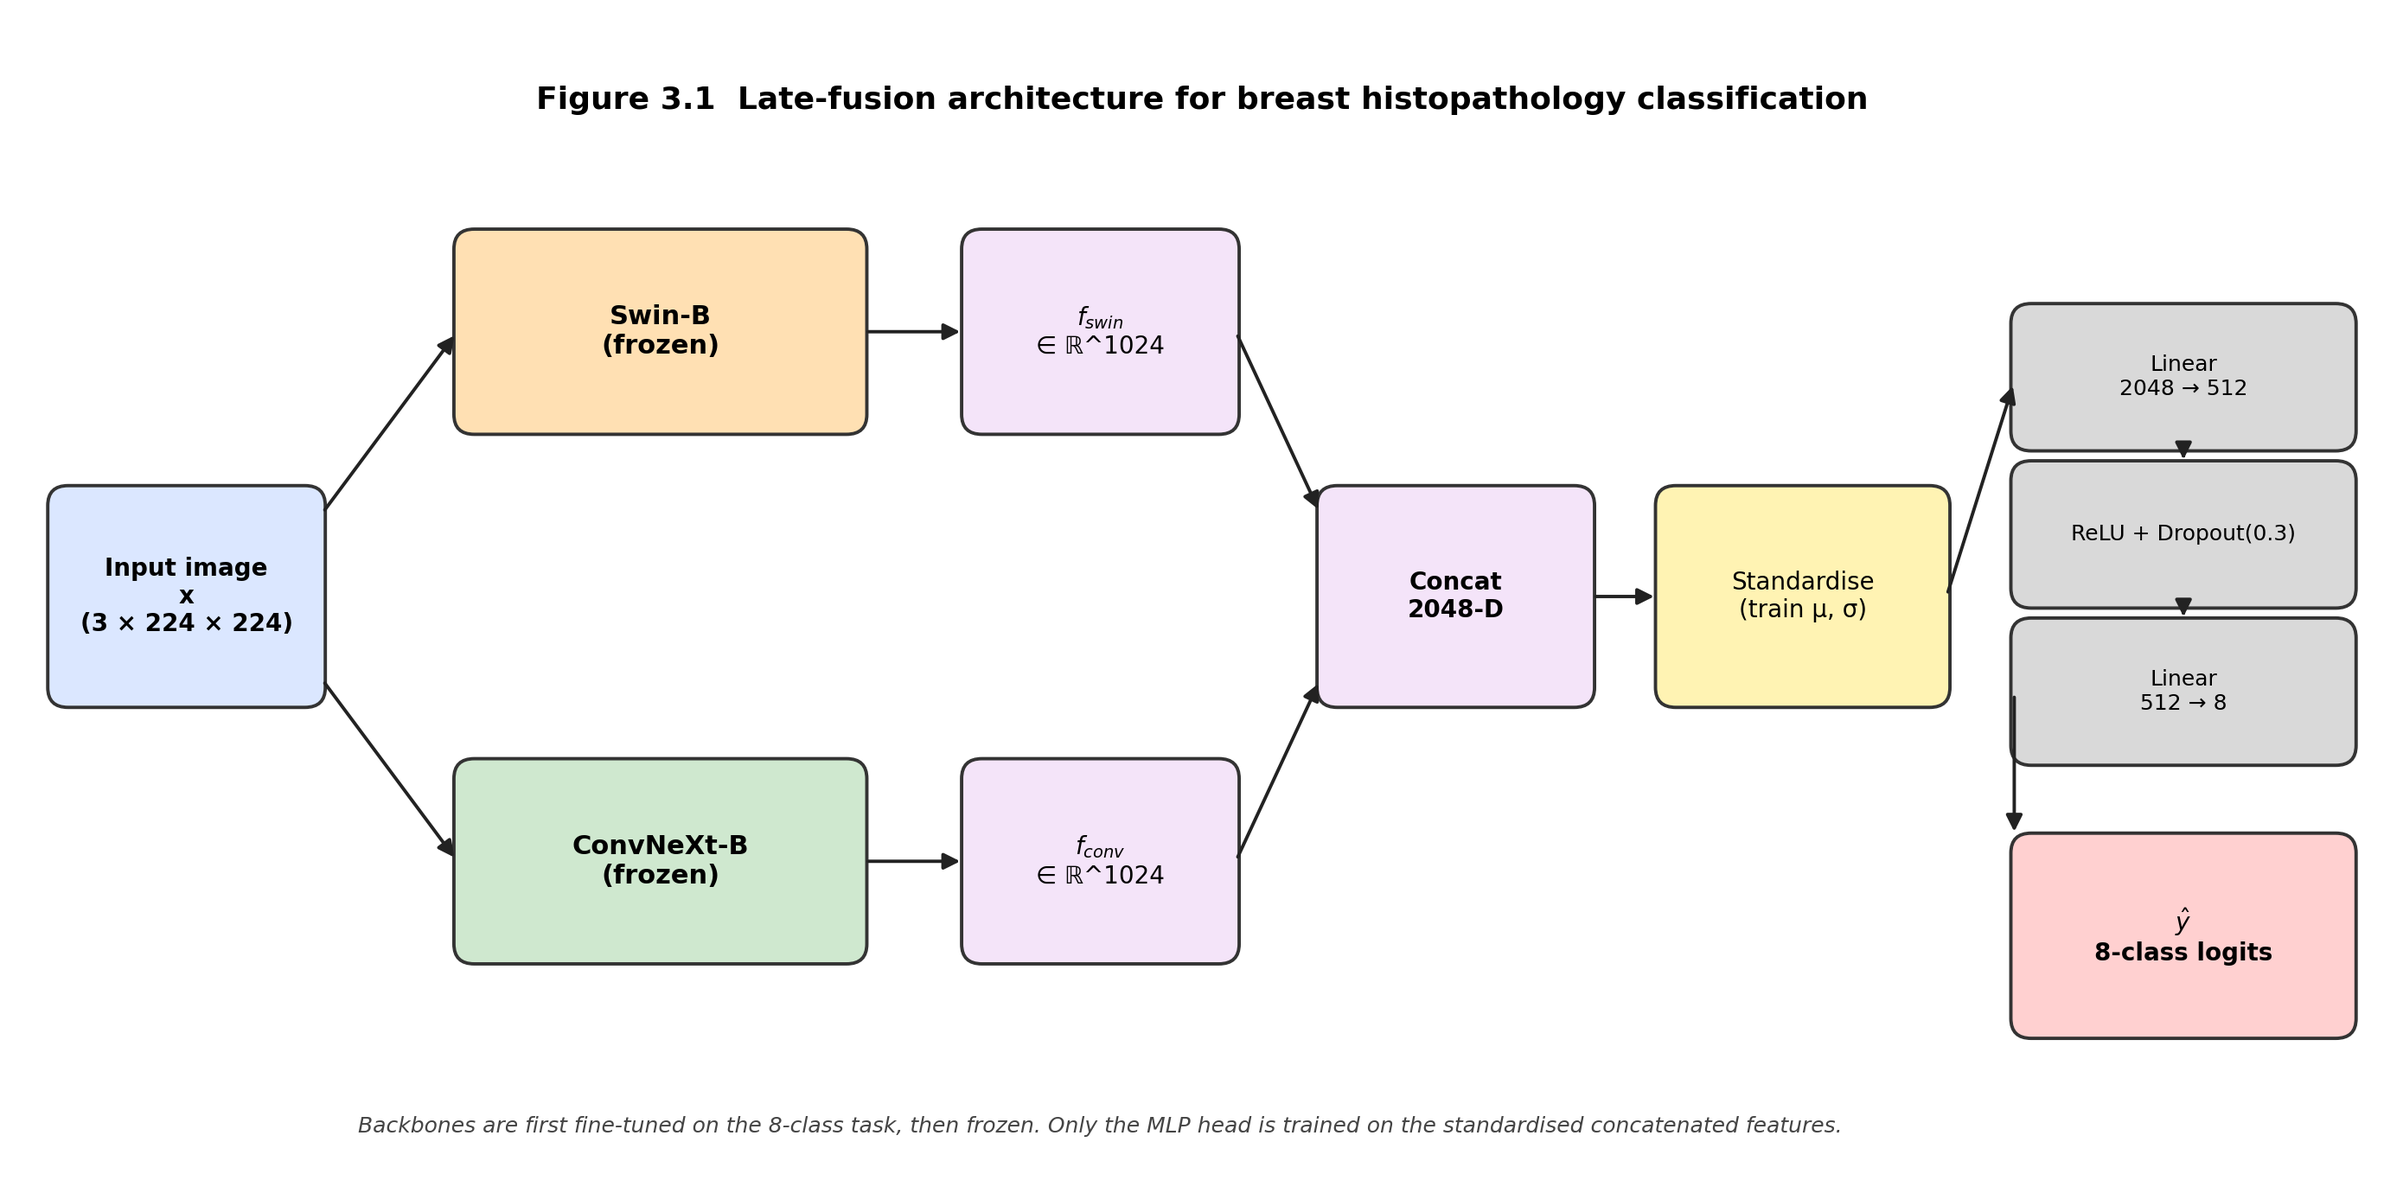
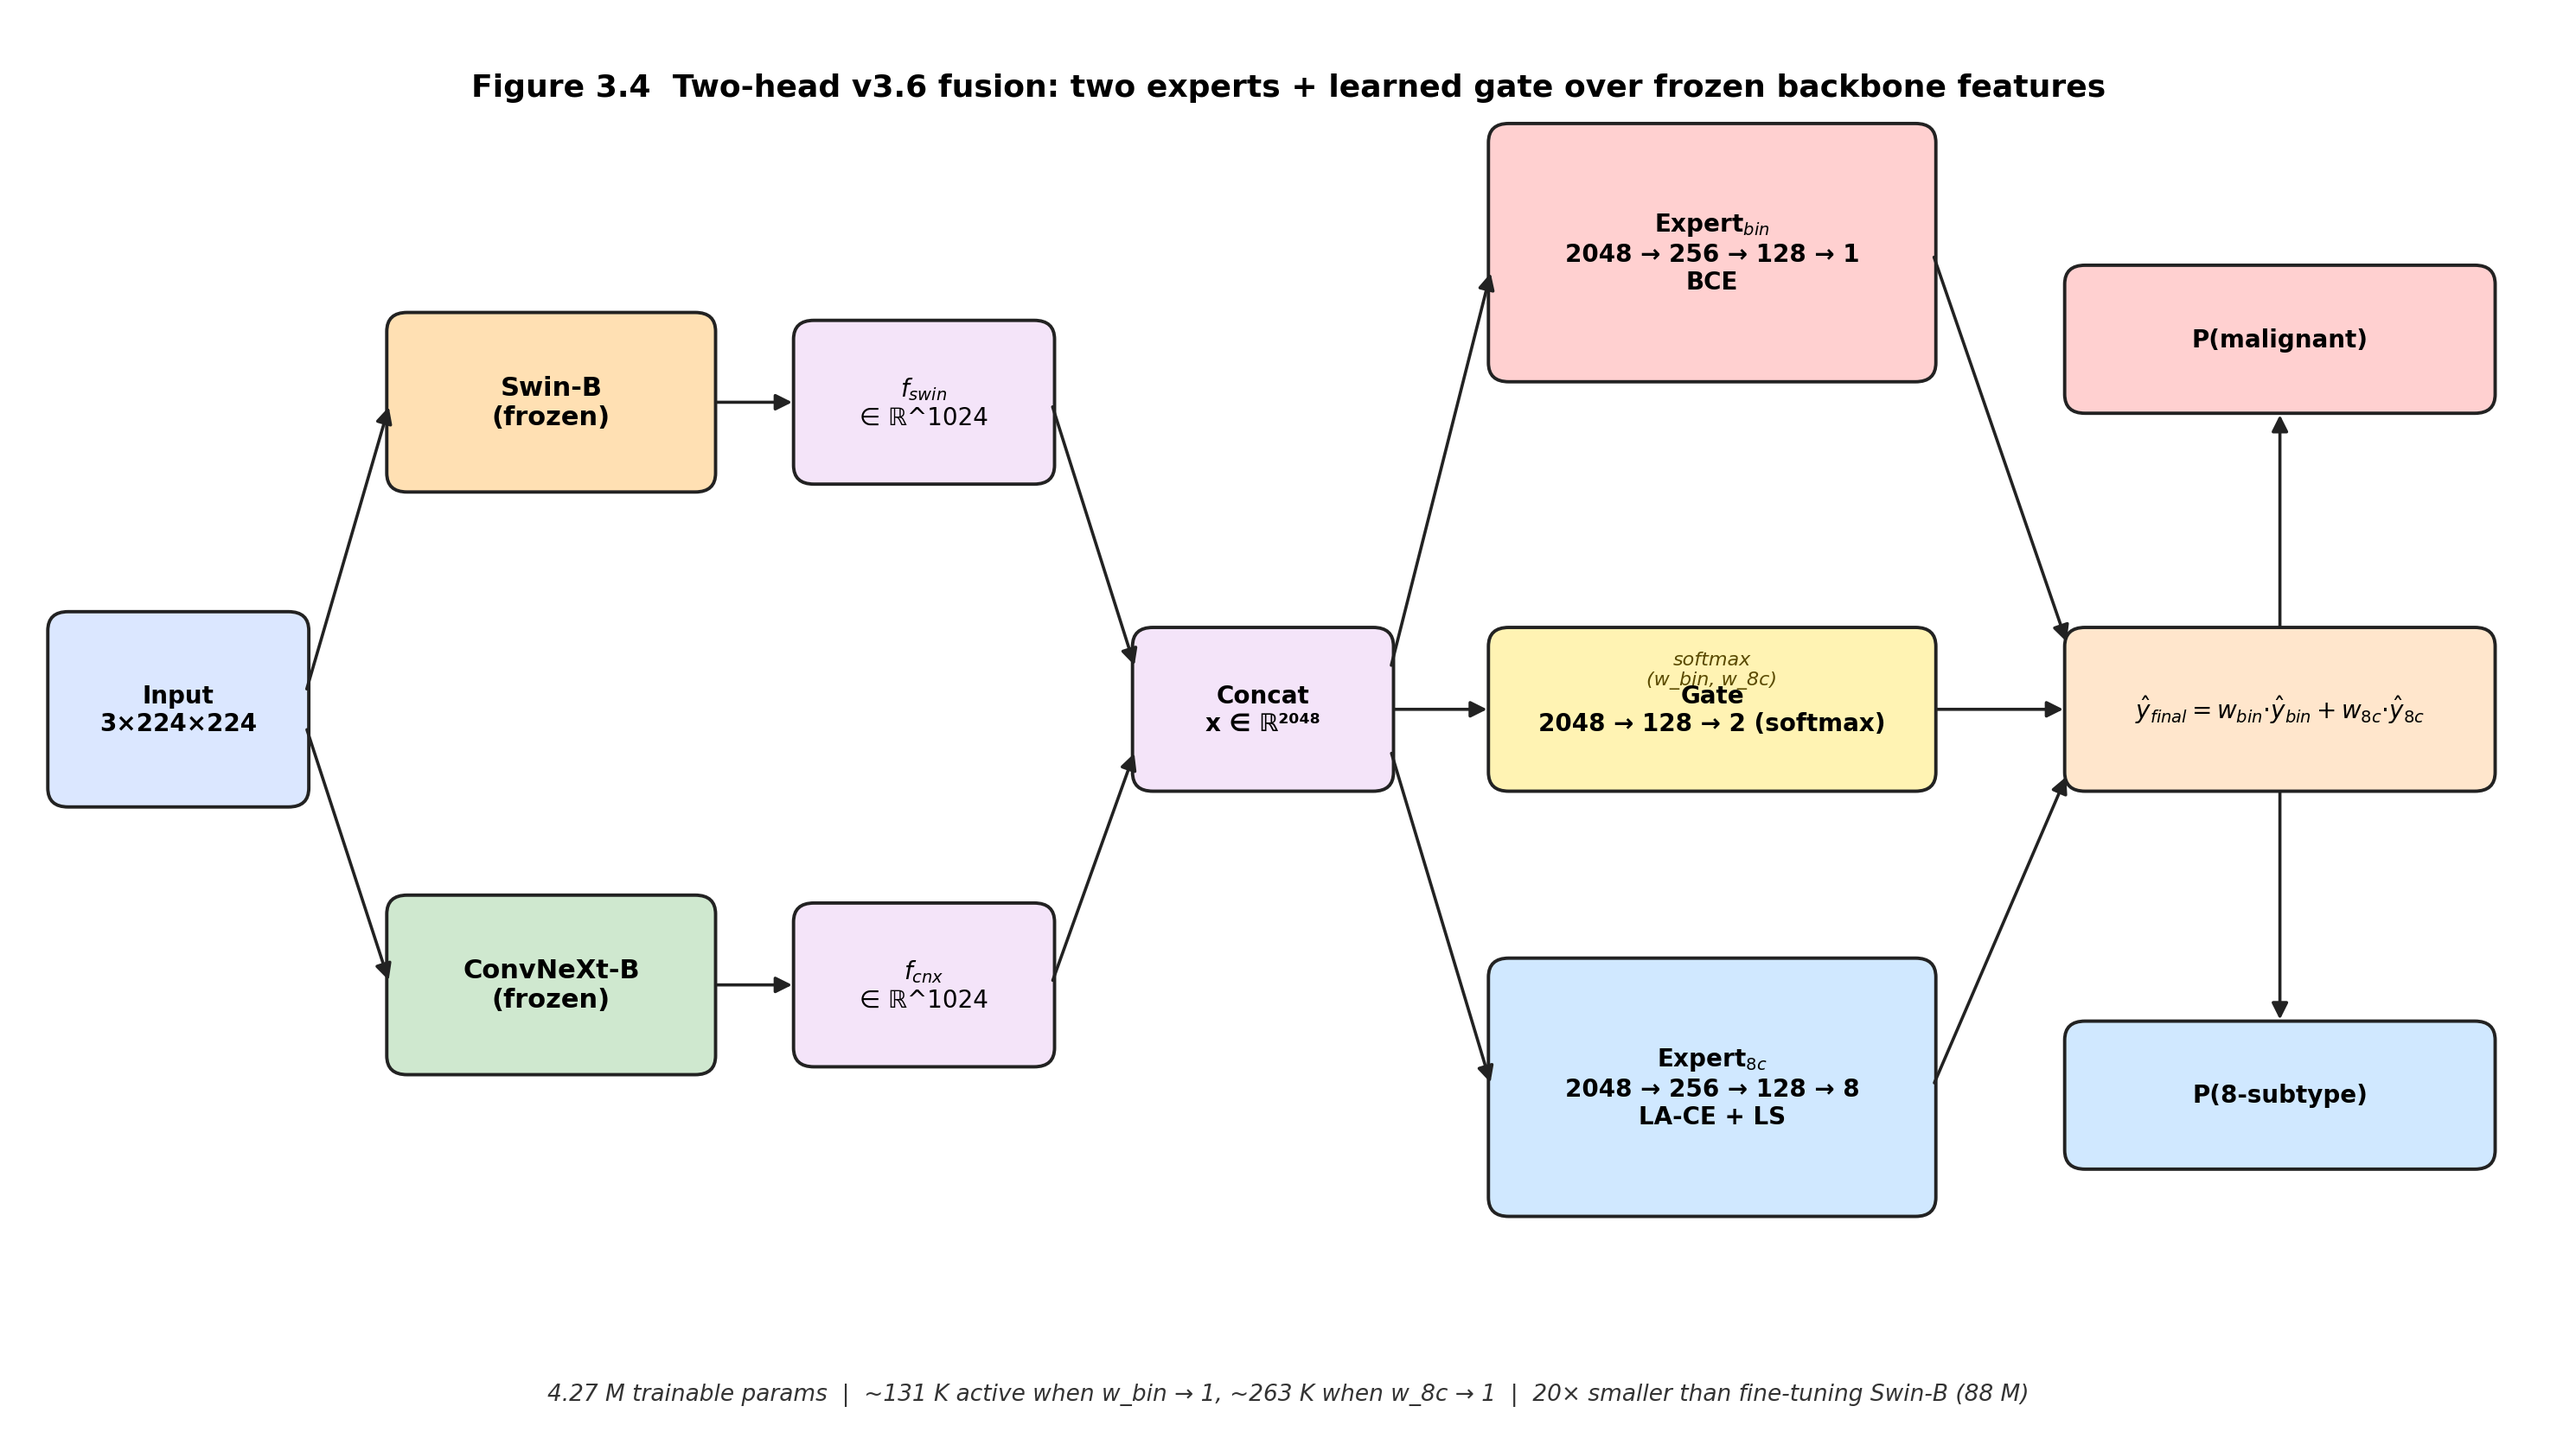
images

diff --git a/thesis-v1-agent-abdullah/scripts/draw_fusion_diagram.py b/thesis-v1-agent-abdullah/scripts/draw_fusion_diagram.py
@@ -1,105 +1,117 @@
-"""
-Generates Figure 3.1: feature-level fusion architecture block diagram.
-
-Saves to figures/fusion_architecture_diagram.png.
-"""
+"""Figure 3.4 — two-head v3.6 fusion architecture (2 experts + learned gate)."""
 import os
-import sys
 import matplotlib.pyplot as plt
-import matplotlib.patches as mpatches
 from matplotlib.patches import FancyBboxPatch, FancyArrowPatch
 
-sys.path.insert(0, os.path.abspath(os.path.join(os.path.dirname(__file__), "..")))
-from src.config import FIGURES_DIR
+ROOT = os.path.abspath(os.path.join(os.path.dirname(__file__), ".."))
+OUT = os.path.join(ROOT, "figures", "fusion_architecture_diagram.png")
+os.makedirs(os.path.dirname(OUT), exist_ok=True)
 
-os.makedirs(FIGURES_DIR, exist_ok=True)
-OUT_PATH = os.path.join(FIGURES_DIR, "fusion_architecture_diagram.png")
+C_INPUT  = "#dbe7ff"
+C_SWIN   = "#ffe0b3"
+C_CONV   = "#cfe8cf"
+C_FEAT   = "#f4e4f9"
+C_BIN    = "#ffd0d0"
+C_8C     = "#d0e8ff"
+C_GATE   = "#fff3b3"
+C_OUT    = "#ffe6cc"
+EDGE     = "#222222"
 
-fig, ax = plt.subplots(figsize=(14, 7))
-ax.set_xlim(0, 14)
-ax.set_ylim(0, 7)
+fig, ax = plt.subplots(figsize=(15, 8.5))
+ax.set_xlim(0, 15)
+ax.set_ylim(0, 9)
 ax.axis("off")
 
-C_INPUT   = "#dbe7ff"
-C_SWIN    = "#ffe0b3"
-C_CONV    = "#cfe8cf"
-C_FEAT    = "#f4e4f9"
-C_NORM    = "#fff3b3"
-C_MLP     = "#d9d9d9"
-C_OUTPUT  = "#ffd0d0"
-EDGE      = "#333333"
-ARROW     = "#222222"
-
-def box(x, y, w, h, text, color, fontsize=10, weight="normal"):
-    p = FancyBboxPatch(
-        (x, y), w, h,
-        boxstyle="round,pad=0.02,rounding_size=0.12",
-        linewidth=1.4, edgecolor=EDGE, facecolor=color,
-    )
+def box(x, y, w, h, text, color, fs=10, weight="normal"):
+    p = FancyBboxPatch((x, y), w, h,
+                       boxstyle="round,pad=0.02,rounding_size=0.12",
+                       linewidth=1.4, edgecolor=EDGE, facecolor=color)
     ax.add_patch(p)
-    ax.text(x + w / 2, y + h / 2, text,
-            ha="center", va="center",
-            fontsize=fontsize, fontweight=weight)
+    ax.text(x + w/2, y + h/2, text, ha="center", va="center",
+            fontsize=fs, fontweight=weight)
 
-def arrow(x1, y1, x2, y2, label=None, label_offset=(0, 0.18), label_fs=9):
-    a = FancyArrowPatch(
-        (x1, y1), (x2, y2),
-        arrowstyle="-|>", mutation_scale=14,
-        linewidth=1.4, color=ARROW,
-    )
+def arrow(x1, y1, x2, y2, color="#222"):
+    a = FancyArrowPatch((x1, y1), (x2, y2),
+                        arrowstyle="-|>", mutation_scale=14,
+                        linewidth=1.3, color=color)
     ax.add_patch(a)
-    if label:
-        mx = (x1 + x2) / 2 + label_offset[0]
-        my = (y1 + y2) / 2 + label_offset[1]
-        ax.text(mx, my, label, ha="center", va="center",
-                fontsize=label_fs, style="italic", color="#333")
 
-box(0.2, 2.85, 1.6, 1.3, "Input image\nx\n(3 × 224 × 224)",
-    C_INPUT, fontsize=10, weight="bold")
+# Input
+box(0.2, 4.0, 1.5, 1.2, "Input\n3×224×224", C_INPUT, fs=10, weight="bold")
 
-box(2.6, 4.5, 2.4, 1.2, "Swin-B\n(frozen)", C_SWIN, fontsize=11, weight="bold")
-box(2.6, 1.3, 2.4, 1.2, "ConvNeXt-B\n(frozen)", C_CONV, fontsize=11, weight="bold")
+# Backbones
+box(2.2, 6.0, 1.9, 1.1, "Swin-B\n(frozen)", C_SWIN, fs=11, weight="bold")
+box(2.2, 2.3, 1.9, 1.1, "ConvNeXt-B\n(frozen)", C_CONV, fs=11, weight="bold")
 
-box(5.6, 4.5, 1.6, 1.2, r"$f_{swin}$" + "\n∈ ℝ^1024", C_FEAT, fontsize=10)
-box(5.6, 1.3, 1.6, 1.2, r"$f_{conv}$" + "\n∈ ℝ^1024", C_FEAT, fontsize=10)
+# Features
+box(4.6, 6.05, 1.5, 1.0, r"$f_{swin}$"+"\n∈ ℝ^1024", C_FEAT, fs=10)
+box(4.6, 2.35, 1.5, 1.0, r"$f_{cnx}$"+"\n∈ ℝ^1024", C_FEAT, fs=10)
 
-box(7.7, 2.85, 1.6, 1.3, "Concat\n2048-D", C_FEAT, fontsize=10, weight="bold")
+# Concat
+box(6.6, 4.1, 1.5, 1.0, "Concat\nx ∈ ℝ²⁰⁴⁸", C_FEAT, fs=10, weight="bold")
 
-box(9.7, 2.85, 1.7, 1.3, "Standardise\n(train μ, σ)", C_NORM, fontsize=10)
+# Branches: binary expert (top), gate (middle), 8-class expert (bottom)
+# All take x as input
 
-box(11.8, 4.4, 2.0, 0.85, "Linear\n2048 → 512", C_MLP, fontsize=9)
-box(11.8, 3.45, 2.0, 0.85, "ReLU + Dropout(0.3)", C_MLP, fontsize=9)
-box(11.8, 2.5, 2.0, 0.85, "Linear\n512 → 8", C_MLP, fontsize=9)
+# Binary expert
+box(8.7, 6.7, 2.6, 1.6,
+    "Expert$_{bin}$\n2048 → 256 → 128 → 1\nBCE",
+    C_BIN, fs=10, weight="bold")
 
-box(11.8, 0.85, 2.0, 1.2,
-    r"$\hat{y}$" + "\n8-class logits", C_OUTPUT, fontsize=10, weight="bold")
+# Gate
+box(8.7, 4.1, 2.6, 1.0,
+    "Gate\n2048 → 128 → 2 (softmax)",
+    C_GATE, fs=10, weight="bold")
 
-arrow(1.8, 4.0, 2.6, 5.1)
-arrow(1.8, 3.0, 2.6, 1.9)
+# 8-class expert
+box(8.7, 1.4, 2.6, 1.6,
+    "Expert$_{8c}$\n2048 → 256 → 128 → 8\nLA-CE + LS",
+    C_8C, fs=10, weight="bold")
 
-arrow(5.0, 5.1, 5.6, 5.1)
-arrow(5.0, 1.9, 5.6, 1.9)
+# Combination
+box(12.1, 4.1, 2.5, 1.0,
+    r"$\hat{y}_{final} = w_{bin}·\hat{y}_{bin} + w_{8c}·\hat{y}_{8c}$",
+    C_OUT, fs=10, weight="bold")
 
-arrow(7.2, 5.1, 7.7, 4.0)
-arrow(7.2, 1.9, 7.7, 3.0)
+# Final output
+box(12.1, 6.5, 2.5, 0.9, "P(malignant)", C_BIN, fs=10, weight="bold")
+box(12.1, 1.7, 2.5, 0.9, "P(8-subtype)", C_8C, fs=10, weight="bold")
 
-arrow(9.3, 3.5, 9.7, 3.5)
+# Arrows: input -> backbones
+arrow(1.7, 4.7, 2.2, 6.55)
+arrow(1.7, 4.5, 2.2, 2.85)
+# backbones -> features
+arrow(4.1, 6.55, 4.6, 6.55)
+arrow(4.1, 2.85, 4.6, 2.85)
+# features -> concat
+arrow(6.1, 6.55, 6.6, 4.85)
+arrow(6.1, 2.85, 6.6, 4.35)
+# concat -> three branches
+arrow(8.1, 4.85, 8.7, 7.4)   # to binary expert
+arrow(8.1, 4.6, 8.7, 4.6)    # to gate
+arrow(8.1, 4.35, 8.7, 2.2)   # to 8-class expert
+# experts + gate -> combination
+arrow(11.3, 7.5, 12.1, 5.0)
+arrow(11.3, 4.6, 12.1, 4.6)
+arrow(11.3, 2.2, 12.1, 4.2)
+# combination -> outputs
+arrow(13.35, 5.1, 13.35, 6.5)
+arrow(13.35, 4.1, 13.35, 2.6)
 
-arrow(11.4, 3.5, 11.8, 4.8)
-
-arrow(12.8, 4.4, 12.8, 4.3)
-arrow(12.8, 3.45, 12.8, 3.35)
-
-arrow(11.8, 2.92, 11.8, 2.05)
-
-ax.text(7.0, 6.5, "Figure 3.1  Late-fusion architecture for breast histopathology classification",
+# Title
+ax.text(7.5, 8.55,
+        "Figure 3.4  Two-head v3.6 fusion: two experts + learned gate over frozen backbone features",
         ha="center", va="center", fontsize=13, fontweight="bold")
 
-ax.text(6.4, 0.3,
-        "Backbones are first fine-tuned on the 8-class task, then frozen. "
-        "Only the MLP head is trained on the standardised concatenated features.",
-        ha="center", va="center", fontsize=9, style="italic", color="#444")
+# Param annotation
+ax.text(7.5, 0.25,
+        "4.27 M trainable params  |  ~131 K active when w_bin → 1, ~263 K when w_8c → 1  |  20× smaller than fine-tuning Swin-B (88 M)",
+        ha="center", va="center", fontsize=9.5, style="italic", color="#333")
+
+# Loss annotation
+ax.text(10.0, 4.85, "softmax\n(w_bin, w_8c)", ha="center", va="center",
+        fontsize=8, color="#5a4a00", style="italic")
 
 plt.tight_layout()
-plt.savefig(OUT_PATH, dpi=200, bbox_inches="tight", facecolor="white")
-print(f"Saved {OUT_PATH}")
+plt.savefig(OUT, dpi=200, bbox_inches="tight", facecolor="white")
+print(f"Saved {OUT}")
